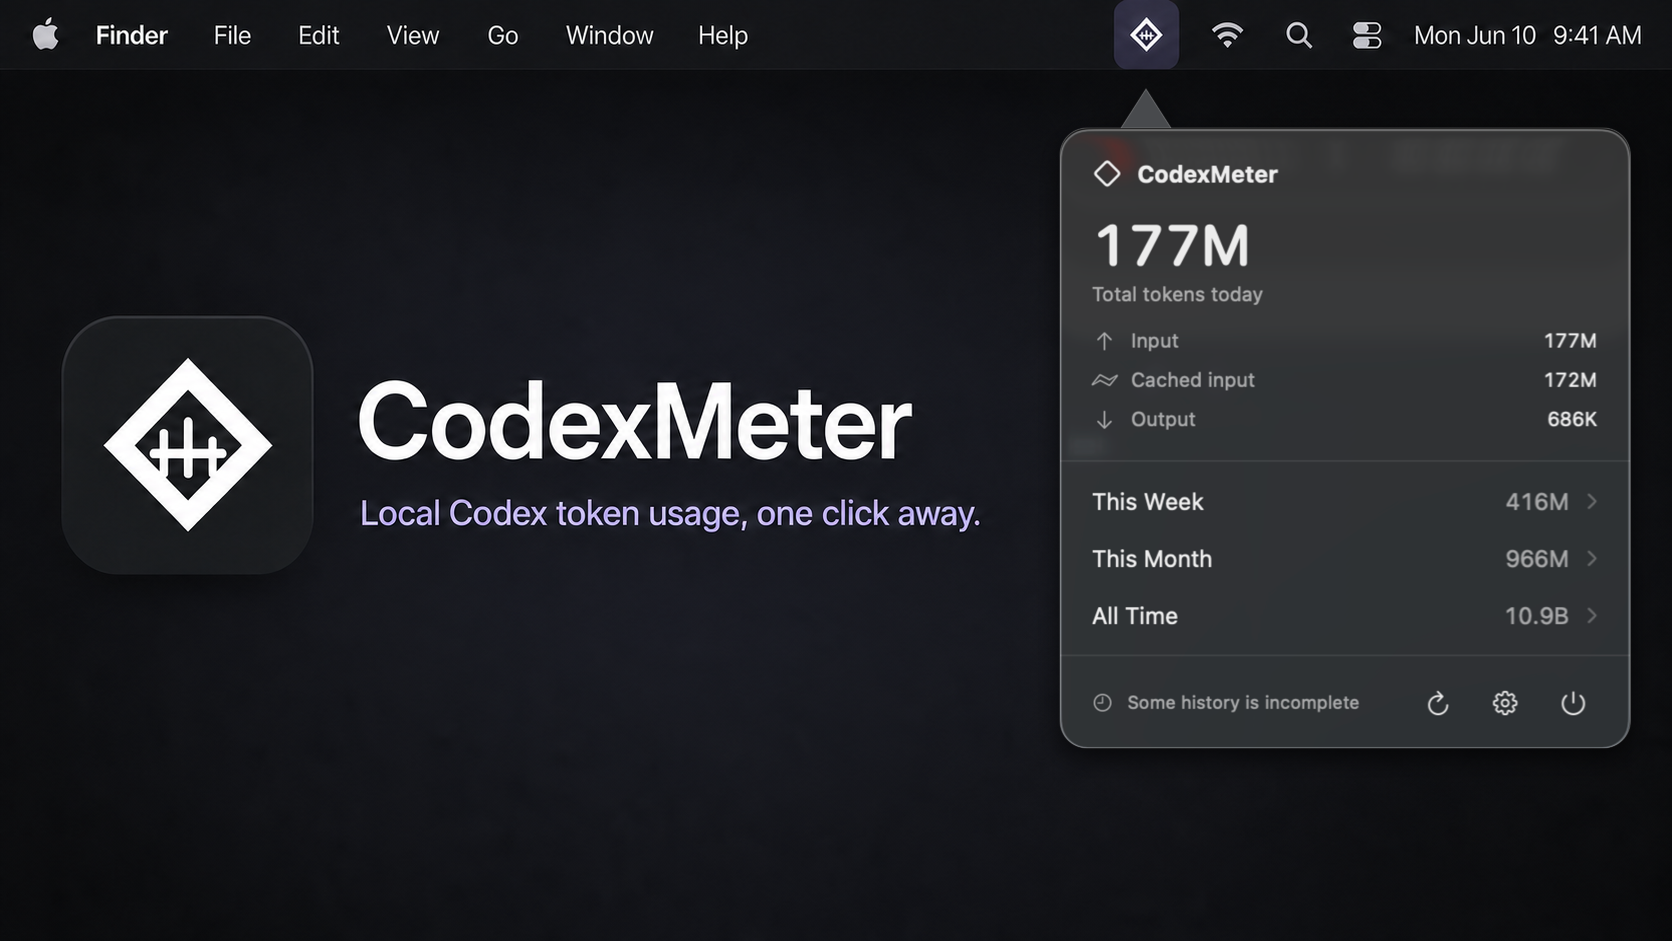
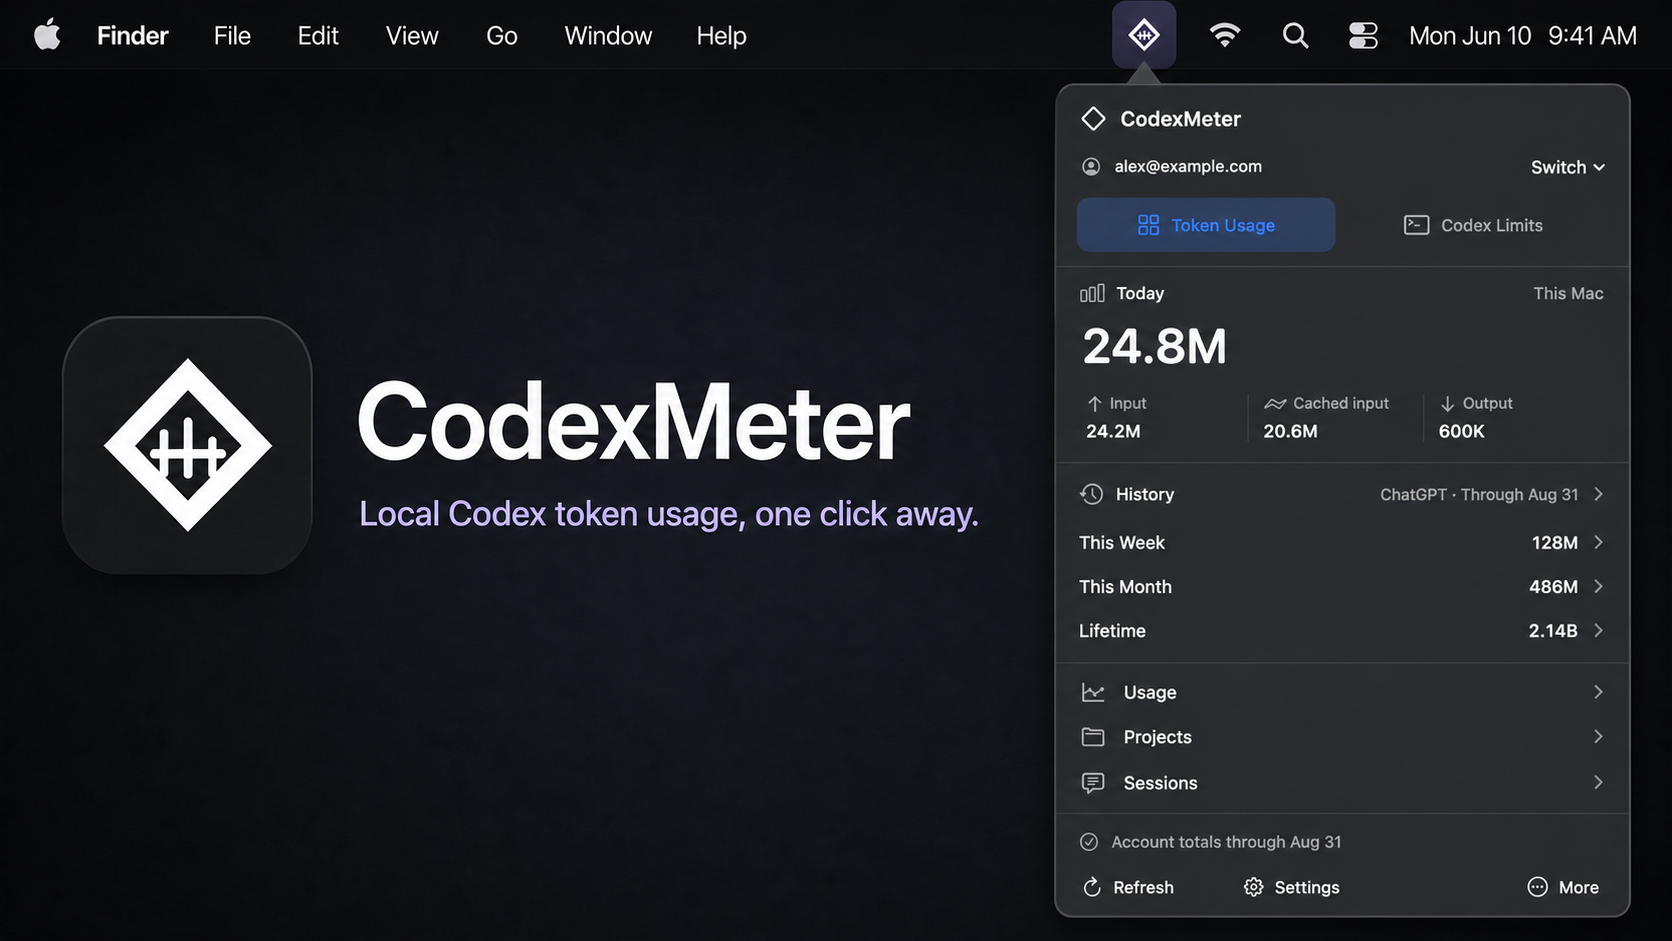
docs(readme): refresh hero with anonymized current app screenshot

diff --git a/Assets/README/hero-prompt.md b/Assets/README/hero-prompt.md
@@ -1,0 +1,57 @@
+# README hero
+
+- Asset: `codexmeter-hero.png`.
+- Mode: built-in `image_gen` image editing (not the CLI).
+- Base: the previous README hero at commit `1408b66`.
+- App reference: the user-provided Token Usage screenshot. The private source screenshot is intentionally not checked in.
+- The existing branding and desktop composition are retained; the current popover is composited into the right side.
+- The email and token figures are fictional presentation data, not account usage. The app's accounting and authentication data are unchanged.
+- Example arithmetic: 24.2M input + 600K output = 24.8M total; 20.6M cached input is included in input, not added again.
+
+## Final prompt
+
+```text
+Use case: compositing with precise text replacement.
+Asset type: existing CodexMeter GitHub README hero, landscape approximately 16:9, high-resolution raster.
+
+INPUT ROLES:
+Image 1 is the EXISTING HERO to edit. Keep its framing, dark desktop background, macOS menu bar, large app icon on the left, large white "CodexMeter" headline, and lavender tagline "Local Codex token usage, one click away." unchanged in design and placement.
+Image 2 is the ACTUAL NEW APP SCREENSHOT to insert. This is a screenshot replacement, not permission to invent a different UI.
+
+PRIMARY EDIT:
+Remove only the old app popover on the right of Image 1 and replace it with the entire newer popover from Image 2. Use the real screenshot's layout, SF-style typography, icons, sections, separators, colors, selected blue Token Usage tab, account switch row, three input/cached/output columns, History section, Usage/Projects/Sessions links and footer. Do not reuse the old UI or its numbers.
+Fit the taller new popover proportionally inside the right third of the hero, roughly 25-27% of canvas width and around 80-84% of canvas height. Keep the ENTIRE panel visible, all footer actions visible, with comfortable margin below it and to the right. Do not stretch it or overlap the headline/tagline. Preserve the left-side brand composition. Match natural macOS floating-panel corners, subtle outline, glass/charcoal material and soft shadow to the base hero, not a harsh rectangular pasted screenshot. The source screenshot's rightmost edge is slightly cropped: complete only the missing edge/right padding so "This Mac", "ChatGPT · Through Aug 31", chevrons and "More" are fully legible; do not invent additional interface elements. A small top pointer can visually connect the panel to the existing menu-bar app icon as in the base.
+
+PRIVACY / EXACT TEXT REPLACEMENTS IN THE NEW APP PANEL:
+Replace the account email with exactly "alex@example.com".
+Use exactly these fictional token figures in their original positions:
+Today big total: "24.8M"
+Input: "24.2M"
+Cached input: "20.6M"
+Output: "600K"
+This Week: "128M"
+This Month: "486M"
+Lifetime: "2.14B"
+These examples intentionally have total = input + output and cached input included within input. Do NOT retain any original email or original token values from either input image.
+
+PRESERVE THESE PANEL LABELS AND ORDER:
+"CodexMeter"
+account row: "alex@example.com", "Switch"
+tabs: "Token Usage", "Codex Limits"
+"Today", "This Mac"
+"24.8M"
+"Input", "Cached input", "Output"
+"24.2M", "20.6M", "600K"
+"History", "ChatGPT · Through Aug 31"
+"This Week" / "128M"
+"This Month" / "486M"
+"Lifetime" / "2.14B"
+"Usage"
+"Projects"
+"Sessions"
+"Account totals through Aug 31"
+"Refresh", "Settings", "More"
+
+CONSTRAINTS:
+Keep all text crisp and readable. Preserve the identity of the actual app screenshot. No extra badges, cards, illustrations, watermarks or decoration. No private email. No original token values. No duplicated UI. No cropped panel. Natural and restrained compositing, matching the existing README hero, not a new promotional design. Render one edited landscape hero image.
+```

diff --git a/README.md b/README.md
@@ -8,9 +8,9 @@
 [![Swift 6.2](https://img.shields.io/badge/Swift-6.2-F05138?style=flat-square&logo=swift&logoColor=white)](Package.swift)
 [![License: MIT](https://img.shields.io/badge/license-MIT-6e5aff?style=flat-square)](LICENSE)
 
-<img src="Assets/README/codexmeter-hero.png" alt="CodexMeter hero featuring the actual app popover and local token totals" width="100%" />
+<img src="Assets/README/codexmeter-hero.png" alt="CodexMeter Token Usage popover with an example account and illustrative token totals" width="100%" />
 
-<p align="center"><sub>The app popover shown above is an actual CodexMeter screen.</sub></p>
+<p align="center"><sub>Composited from a CodexMeter screenshot. Email and token values are illustrative.</sub></p>
 
 Tiny native macOS menu bar app that turns **local Codex session history** into clear token totals. Local totals stay one click away without an account login, API key, browser cookie, telemetry, or cloud sync. You can also opt in to a separate, memory-only ChatGPT account-total view.
 
